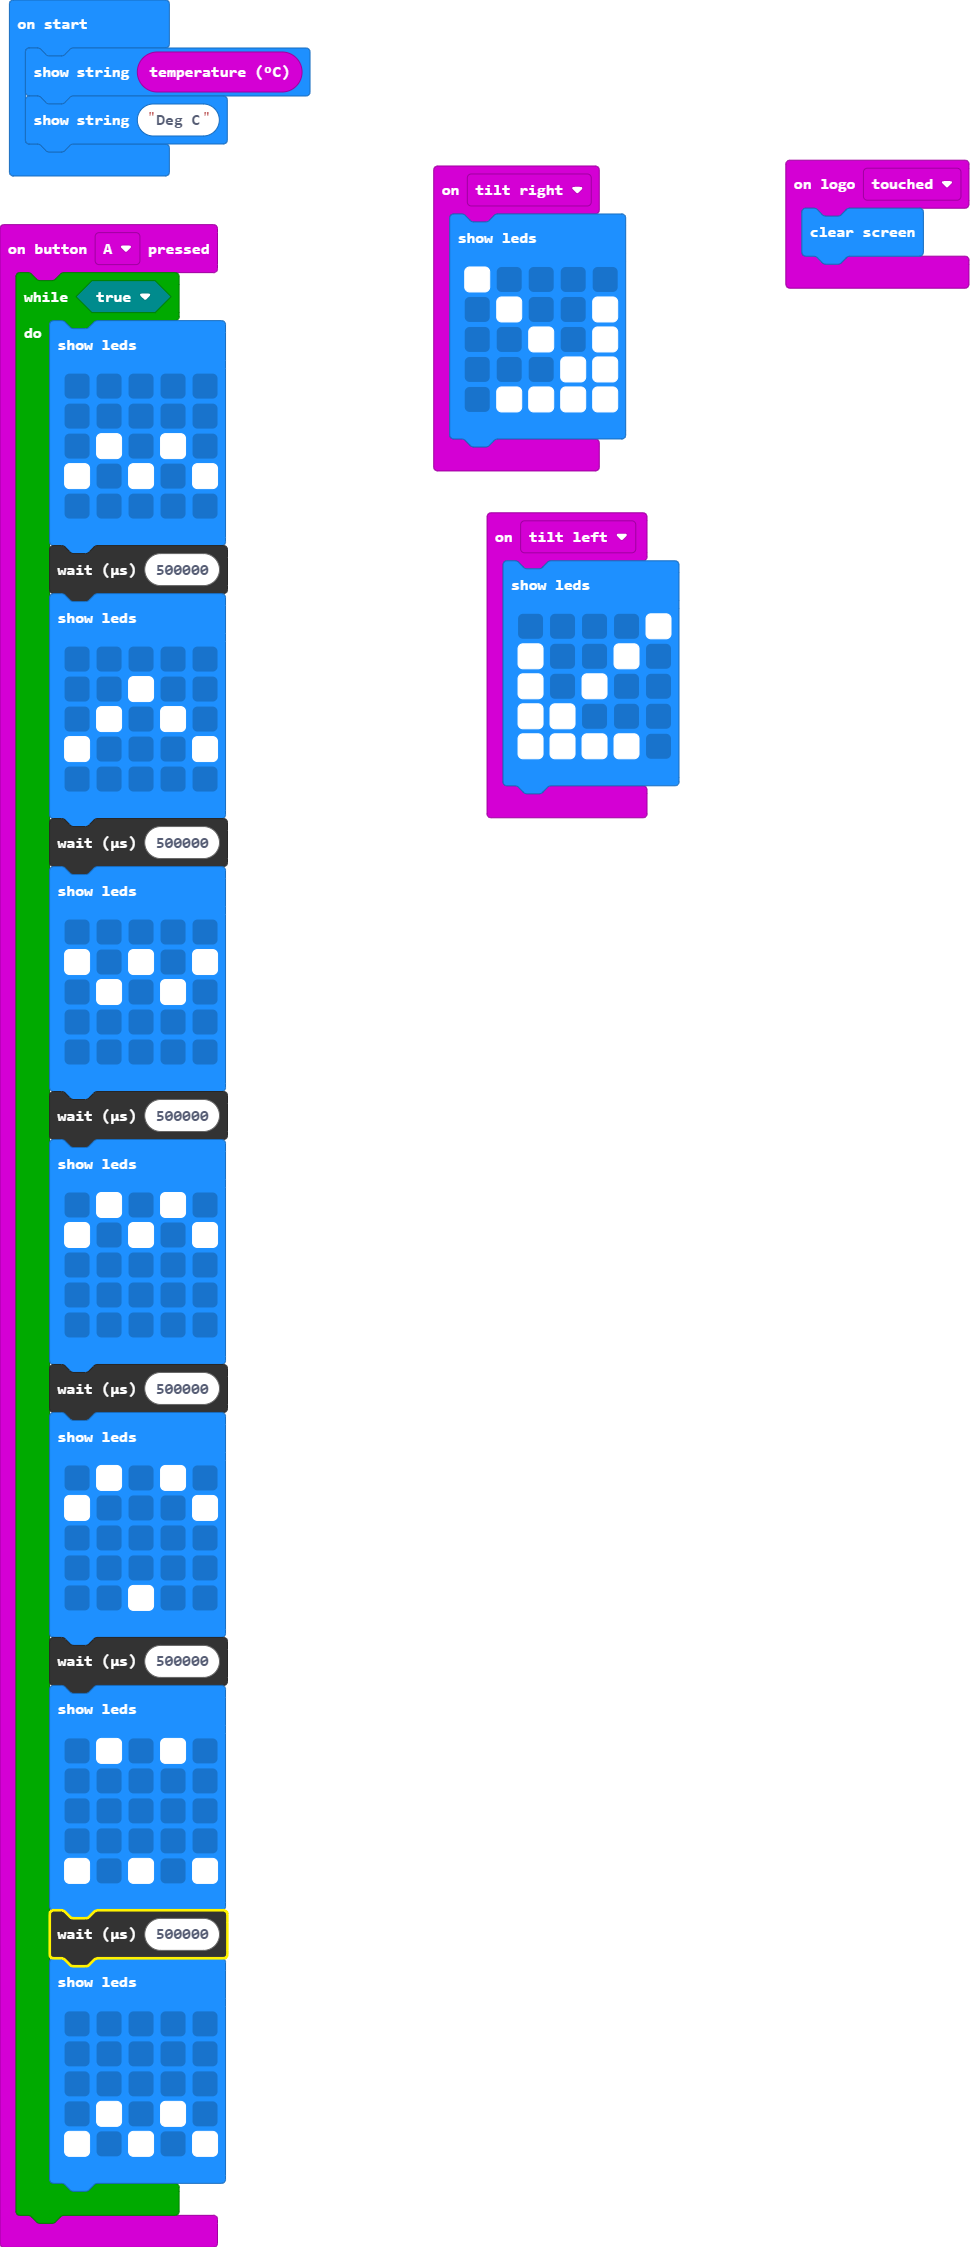
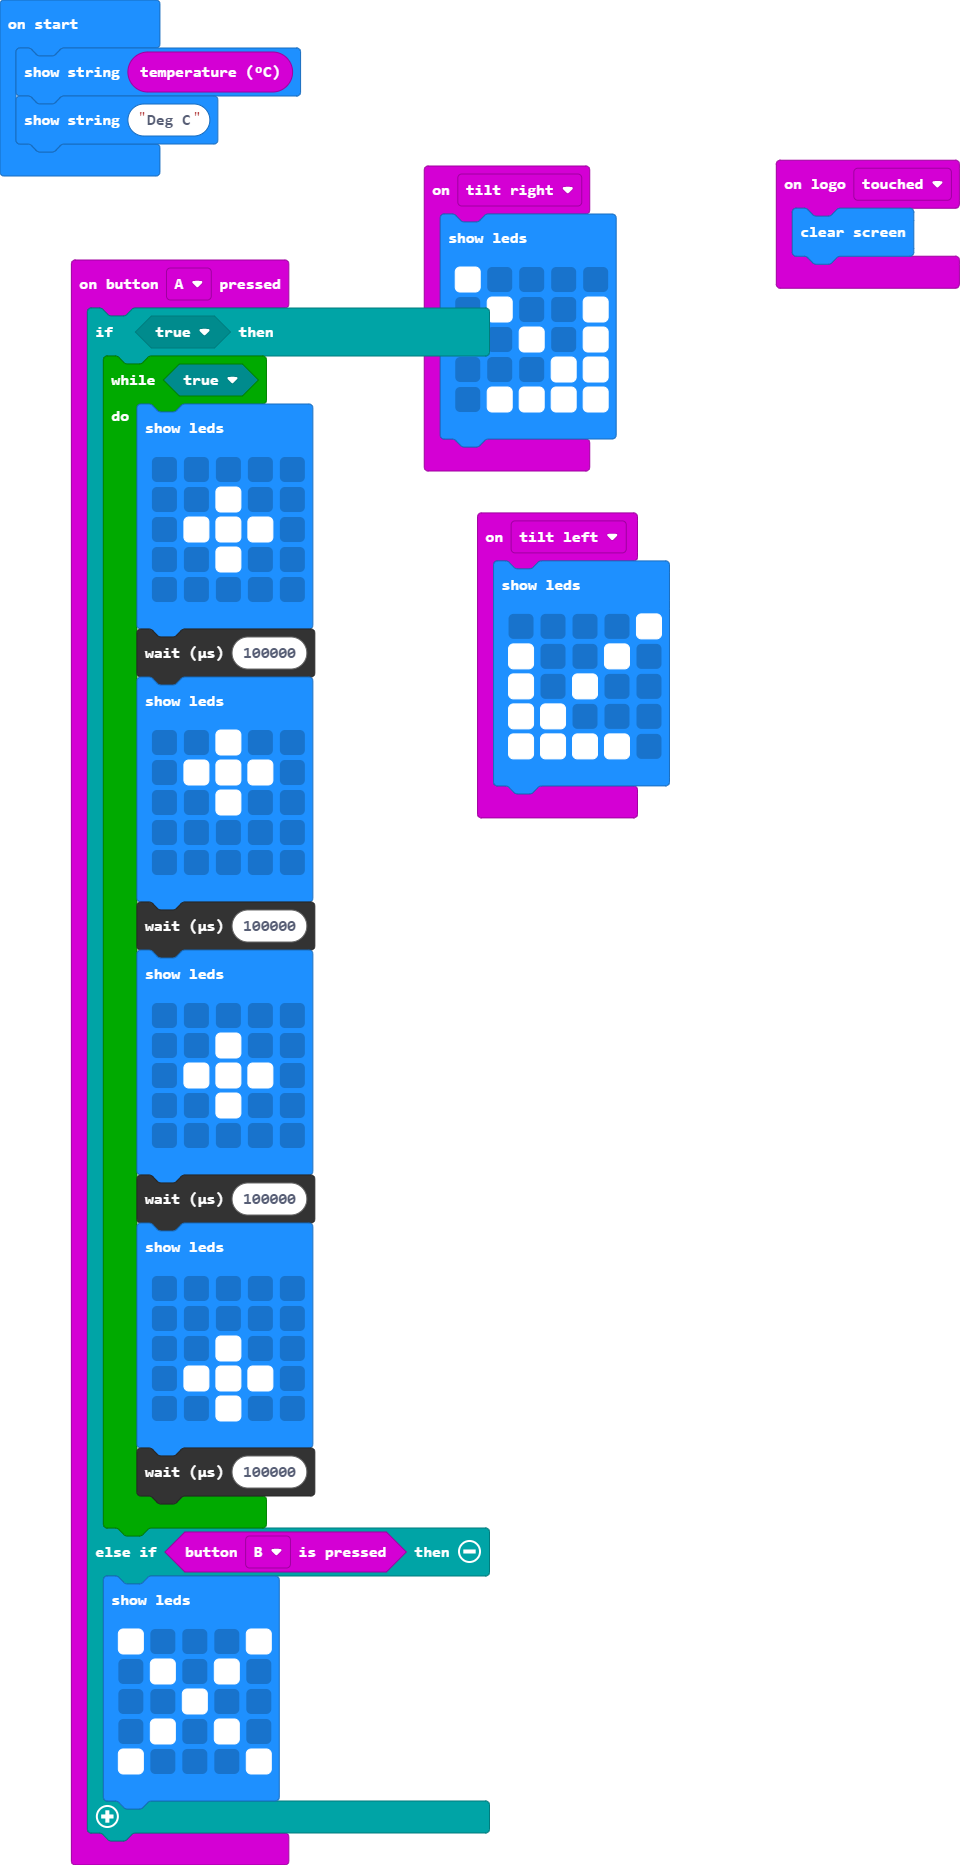
Update main.blocks, main.ts

diff --git a/main.ts b/main.ts
@@ -1,59 +1,46 @@
 input.onButtonPressed(Button.A, function () {
-    while (true) {
+    if (true) {
+        while (true) {
+            basic.showLeds(`
+                . . . . .
+                . . # . .
+                . # # # .
+                . . # . .
+                . . . . .
+                `)
+            control.waitMicros(100000)
+            basic.showLeds(`
+                . . # . .
+                . # # # .
+                . . # . .
+                . . . . .
+                . . . . .
+                `)
+            control.waitMicros(100000)
+            basic.showLeds(`
+                . . . . .
+                . . # . .
+                . # # # .
+                . . # . .
+                . . . . .
+                `)
+            control.waitMicros(100000)
+            basic.showLeds(`
+                . . . . .
+                . . . . .
+                . . # . .
+                . # # # .
+                . . # . .
+                `)
+            control.waitMicros(100000)
+        }
+    } else if (input.buttonIsPressed(Button.B)) {
         basic.showLeds(`
-            . . . . .
-            . . . . .
+            # . . . #
             . # . # .
-            # . # . #
-            . . . . .
-            `)
-        control.waitMicros(500000)
-        basic.showLeds(`
-            . . . . .
             . . # . .
             . # . # .
             # . . . #
-            . . . . .
-            `)
-        control.waitMicros(500000)
-        basic.showLeds(`
-            . . . . .
-            # . # . #
-            . # . # .
-            . . . . .
-            . . . . .
-            `)
-        control.waitMicros(500000)
-        basic.showLeds(`
-            . # . # .
-            # . # . #
-            . . . . .
-            . . . . .
-            . . . . .
-            `)
-        control.waitMicros(500000)
-        basic.showLeds(`
-            . # . # .
-            # . . . #
-            . . . . .
-            . . . . .
-            . . # . .
-            `)
-        control.waitMicros(500000)
-        basic.showLeds(`
-            . # . # .
-            . . . . .
-            . . . . .
-            . . . . .
-            # . # . #
-            `)
-        control.waitMicros(500000)
-        basic.showLeds(`
-            . . . . .
-            . . . . .
-            . . . . .
-            . # . # .
-            # . # . #
             `)
     }
 })
